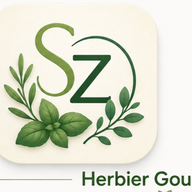
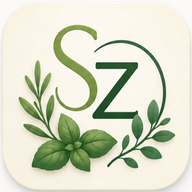
Add files via upload

diff --git a/app-v282.js b/app-v282.js
@@ -9,7 +9,7 @@ const norm = s => (s || '').normalize('NFD').replace(/[\u0300-\u036f]/g,'').toLo
 const esc = s => String(s ?? '').replace(/[&<>"']/g,c=>({"&":"&amp;","<":"&lt;",">":"&gt;",'"':"&quot;","'":"&#39;"}[c]));
 const recipeStore='hg-recipes-v271', planStore='hg-plan-v271', shoppingStore='hg-shopping-v271', slotStore='hg-day-slots-v271';
 const shoppingAssignmentStore='hg-shopping-assignments-v251';
-const APP_VERSION='2.9.7.16';
+const APP_VERSION='2.9.7.16.3';
 const mealTransferStore='hg-meal-transfers-v272', weekStore='hg-current-week-v272';
 const weekSlotStore='hg-week-slots-v28', aisleOrderStore='hg-aisle-order-v28';
 const mealNoteStore='hg-meal-notes-v294', shoppingStoreMemory='hg-shopping-stores-v294', leftoverAckStore='hg-leftover-notice-acks-v2977';
@@ -44,7 +44,7 @@ async function init(){
   await autoLoadSharedBackup();
   migrateLegacyWeekSlots();
   renderDaySlotChoices();
-  if('serviceWorker' in navigator) navigator.serviceWorker.register('sw.js?v=29716', {updateViaCache:'none'});
+  if('serviceWorker' in navigator) navigator.serviceWorker.register('sw.js?v=297163', {updateViaCache:'none'});
   setStartupStatus('Chargement de vos recettes…');
   const stored=JSON.parse(localStorage.getItem(recipeStore)||'null');
   if(stored) recipes=stored; else recipes=await fetch(`recipes.json?_=${Date.now()}`,{cache:'no-store'}).then(r=>r.json());
@@ -204,7 +204,7 @@ function openRecipe(id){if(id)captureRecipeListState();const r=recipes.find(x=>x
 $('#newRecipe').onclick=()=>openRecipe();$('#closeRecipe').onclick=()=>$('#recipeDialog').close();
 function parseNumber(v){const s=String(v??'').trim().replace(',','.').replace('½','.5').replace('¼','.25').replace('¾','.75');if(/^\d+\s+\d+\/\d+$/.test(s)){const [a,f]=s.split(/\s+/),[n,d]=f.split('/').map(Number);return Number(a)+n/d;}if(/^\d+\/\d+$/.test(s)){const [n,d]=s.split('/').map(Number);return n/d;}const n=Number(s);return Number.isFinite(n)?n:v;}
 function formRecipe(newId=false){const ingredients=$('#recipeIngredients').value.split('\n').map(x=>x.trim()).filter(Boolean).map(line=>{const [n,q='',u='']=line.split('/').map(x=>x.trim());return[n,parseNumber(q),u]});const existing=recipes.find(x=>x.id===$('#recipeId').value);return normalizeRecipe({id:newId||$('#recipeId').value||slug($('#recipeTitle').value),title:$('#recipeTitle').value.trim(),category:$('#recipeCategory').value.trim(),time:existing?.time||0,servings:+$('#recipeServings').value,temperature:$('#recipeTemperature').value,avecViande:$('#recipeType').value==='viande',type:$('#recipeType').value,effort:$('#recipeEffort').value,difficulty:$('#recipeDifficulty').value,special:$('#recipeSpecial').value,ingredients,steps:$('#recipeSteps').value.split('\n').map(x=>x.trim()).filter(Boolean),tags:$('#recipeTags').value.split(',').map(x=>x.trim()).filter(Boolean),source:existing?.source||'',notes:existing?.notes||'',paprikaUid:existing?.paprikaUid||'',complementRecipeIds:existing?.complementRecipeIds||[],complementText:existing?.complementText||'',leftoverIdeas:existing?.leftoverIdeas||'',cookedDates:existing?.cookedDates||[],favorite:existing?.favorite||false,cookingComments:existing?.cookingComments||[]});}
-$('#recipeForm').onsubmit=e=>{e.preventDefault();const r=formRecipe();const i=recipes.findIndex(x=>x.id===r.id);if(i>=0)recipes[i]=r;else recipes.unshift(r);plan.forEach(item=>{if(item.recipe?.id===r.id)item.recipe=r});saveRecipes();savePlanData();fillCategories();restoreRecipeListState();keepScroll(renderRecipes,'recipes');renderPlan();invalidateShopping('Une recette a été modifiée : les affichages du planning sont à jour. Retransfère le repas dans les courses si les ingrédients ont changé.');$('#recipeDialog').close();if(viewedRecipeId===r.id){const pi=plan.findIndex(x=>x.uid===viewedPlanItemId);if(previousView==='planner'&&pi>=0)showPlanRecipe(pi);else showRecipe(r.id)}};
+$('#recipeForm').onsubmit=e=>{e.preventDefault();const r=formRecipe();const i=recipes.findIndex(x=>x.id===r.id);if(i>=0)recipes[i]=r;else recipes.unshift(r);plan.forEach(item=>{if(item.recipe?.id===r.id)item.recipe=r});saveRecipes();savePlanData();fillCategories();restoreRecipeListState();keepScroll(renderRecipes,'recipes');renderPlan();invalidateShopping('Une recette a été modifiée : les affichages du planning sont à jour. Retransfère le repas dans les courses si les ingrédients ont changé.');$('#recipeDialog').close();if(viewedRecipeId===r.id){const pi=plan.findIndex(x=>x.uid===viewedPlanItemId);if(previousView==='planner'&&pi>=0)showPlanRecipe(pi,{rememberPlannerScroll:false});else showRecipe(r.id)}};
 $('#deleteRecipe').onclick=()=>{const id=$('#recipeId').value;if(id&&confirm('Supprimer définitivement cette recette ?')){recipes=recipes.filter(r=>r.id!==id);plan=plan.filter(x=>x.recipe.id!==id);saveRecipes();fillCategories();keepScroll(renderRecipes,'recipes');renderPlan();invalidateShopping('Une recette du planning a été supprimée.');$('#recipeDialog').close();switchView('recipes')}};
 $('#duplicateRecipe').onclick=()=>{const r=formRecipe(slug($('#recipeTitle').value));r.title+=' (copie)';r.cookedDates=[];r.favorite=false;r.cookingComments=[];recipes.unshift(r);saveRecipes();fillCategories();keepScroll(renderRecipes,'recipes');$('#recipeDialog').close();};
 
@@ -331,7 +331,7 @@ function removePlanItem(index){const item=plan[index];if(!item)return;if(confirm
 function setPlanRole(index){const item=plan[index];if(!item)return;const role=prompt('Service dans le repas (entrée, plat, accompagnement, dessert, sauce, boisson…)',item.role||'');if(role===null)return;item.role=role.trim();savePlanData();renderPlan();}
 function togglePreparePreviousDay(index){const item=plan[index];if(!item)return;item.preparePreviousDay=!item.preparePreviousDay;savePlanData();renderPlan();}
 function preparationsForDate(date){return plan.filter(x=>x.preparePreviousDay&&addDaysISO(x.date,-1)===date)}
-function showPlanRecipe(index){const m=plan[index];if(!m)return;viewedPlanItemId=m.uid;rememberScroll('planner');viewedRecipeId=m.recipe.id;previousView='planner';const rows=scaledIngredientRows(m.recipe,m.people,m.qtyOverrides||{});$('#recipeViewContent').innerHTML=`<div class="recipe-title"><div class="meta recipe-meta-line">${recipeMetaMarkup(m.recipe)} · <span><b>Planning :</b> ${esc(dateLabel(m.date))} ${esc(m.slot.toLowerCase())}</span></div><h2>${esc(m.recipe.title)}</h2><div class="recipe-tag-meta-row"><div class="badges">${(m.recipe.tags||[]).map(t=>`<span>${esc(t)}</span>`).join('')}</div><div class="meta recipe-meta-tail">${recipeMetaTailMarkup(m.recipe,m.people||m.recipe.servings)}</div></div>${recipeSourceMarkup(m.recipe.source)}</div><div class="notice subtle">Cette adaptation appartient uniquement à ce repas. La recette originale reste inchangée.</div><div class="recipe-columns"><section><h3>Ingrédients</h3><ul>${ingredientRowsMarkup(rows)}</ul></section><section><h3>Préparation</h3><ol>${stepRowsMarkup(m.recipe.steps)}</ol>${m.notes?`<h3>Notes du repas</h3><p>${esc(m.notes).replace(/\n/g,'<br>')}</p>`:''}${m.recipe.leftoverIdeas?`<h3>Utiliser des restes</h3><p>${esc(m.recipe.leftoverIdeas).replace(/\n/g,'<br>')}</p>`:''}</section></div>${recipeComplementMarkup(m.recipe)}${recipeMemoryMarkup(m.recipe)}`;switchView('recipeView');bindRecipeDetailLinks();}
+function showPlanRecipe(index,{rememberPlannerScroll=true}={}){const m=plan[index];if(!m)return;viewedPlanItemId=m.uid;if(rememberPlannerScroll)rememberScroll('planner');viewedRecipeId=m.recipe.id;previousView='planner';const rows=scaledIngredientRows(m.recipe,m.people,m.qtyOverrides||{});$('#recipeViewContent').innerHTML=`<div class="recipe-title"><div class="meta recipe-meta-line">${recipeMetaMarkup(m.recipe)} · <span><b>Planning :</b> ${esc(dateLabel(m.date))} ${esc(m.slot.toLowerCase())}</span></div><h2>${esc(m.recipe.title)}</h2><div class="recipe-tag-meta-row"><div class="badges">${(m.recipe.tags||[]).map(t=>`<span>${esc(t)}</span>`).join('')}</div><div class="meta recipe-meta-tail">${recipeMetaTailMarkup(m.recipe,m.people||m.recipe.servings)}</div></div>${recipeSourceMarkup(m.recipe.source)}</div><div class="notice subtle">Cette adaptation appartient uniquement à ce repas. La recette originale reste inchangée.</div><div class="recipe-columns"><section><h3>Ingrédients</h3><ul>${ingredientRowsMarkup(rows)}</ul></section><section><h3>Préparation</h3><ol>${stepRowsMarkup(m.recipe.steps)}</ol>${m.notes?`<h3>Notes du repas</h3><p>${esc(m.notes).replace(/\n/g,'<br>')}</p>`:''}${m.recipe.leftoverIdeas?`<h3>Utiliser des restes</h3><p>${esc(m.recipe.leftoverIdeas).replace(/\n/g,'<br>')}</p>`:''}</section></div>${recipeComplementMarkup(m.recipe)}${recipeMemoryMarkup(m.recipe)}`;switchView('recipeView');bindRecipeDetailLinks();}
 function renderPlan(){
   $('#weekLabel').textContent=weekLabel(currentWeekStart);
   const weekDates=days.map((_,i)=>addDaysISO(currentWeekStart,i));
@@ -460,7 +460,7 @@ const unitAliases={'tablespoon':'c. à soupe','tablespoons':'c. à soupe','tbsp'
 function parseIngredientLine(line){line=String(line).replace(/^[-•]\s*/,'').trim();if(!line)return['','',''];const m=line.match(/^((?:\d+\s+)?\d+\/\d+|\d+[.,]?\d*|[½¼¾⅓⅔])\s*([\p{L}. à]+)?\s+(.+)$/u);if(!m)return[line,'',''];let q=parseNumber(m[1]),unit=norm(m[2]||'').replace(/\.$/,'').trim(),name=m[3].trim();unit=unitAliases[unit]||m[2]?.trim()||'';return[name,q,unit]}
 function dedupeImported(a){const seen=new Set();return a.filter(r=>{const k=r.paprikaUid||norm(r.title);if(seen.has(k))return false;seen.add(k);return true})}
 
-function printDocument(title,body){const w=open('','_blank','width=900,height=700');if(!w)return alert('Fenêtre d’impression bloquée.');w.document.write(`<!doctype html><html lang="fr"><head><meta charset="utf-8"><title>${esc(title)}</title><style>@page{margin:10mm}body{font-family:Arial;max-width:850px;margin:auto;line-height:1.25}h1,h2{font-family:Georgia}.columns{display:grid;grid-template-columns:1fr 1.4fr;gap:20px}li{margin:3px 0}.day{border:1px solid #bbb;padding:8px;margin:6px 0;break-inside:avoid}.shop{columns:2}</style></head><body>${body}</body></html>`);w.document.close();setTimeout(()=>w.print(),250)}
+function printDocument(title,body){const w=open('','_blank','width=900,height=700');if(!w)return alert('Fenêtre d’impression bloquée.');w.document.write(`<!doctype html><html lang="fr"><head><meta charset="utf-8"><title>${esc(title)}</title><style>@page{margin:10mm}body{font-family:Arial;max-width:850px;margin:auto;line-height:1.25}h1,h2{font-family:Georgia}.columns{display:grid;grid-template-columns:1fr 1.4fr;gap:20px}li{margin:3px 0}.recipe-intertitle{font-weight:700;list-style:none;margin-top:8px;margin-left:-18px}.columns ol{list-style:none;counter-reset:recipe-step;padding-left:20px}.columns ol>li:not(.recipe-intertitle){counter-increment:recipe-step;position:relative}.columns ol>li:not(.recipe-intertitle)::before{content:counter(recipe-step) '. ';position:absolute;right:calc(100% + 5px)}.columns ol>.recipe-intertitle{margin-left:0}.day{border:1px solid #bbb;padding:8px;margin:6px 0;break-inside:avoid}.shop{columns:2}</style></head><body>${body}</body></html>`);w.document.close();setTimeout(()=>w.print(),250)}
 function printRecipe(r,people=null){if(!r)return;const p=people||r.servings;const body=`<h1>${esc(r.title)}</h1><p>${p} portions · ${esc(r.category)} · ${esc(recipeTypeLabel(r.type))} · ${esc(recipeEffortLabel(r.effort))} · ${esc(recipeDifficultyLabel(r.difficulty))}</p><div class="columns"><section><h2>Ingrédients</h2><ul>${ingredientRowsMarkup(scaledIngredientRows(r,p))}</ul></section><section><h2>Préparation</h2><ol>${stepRowsMarkup(r.steps)}</ol></section></div>`;printDocument(r.title,body)}
 $('#printPlan').onclick=()=>{const week=plan.filter(x=>x.date>=currentWeekStart&&x.date<=addDaysISO(currentWeekStart,6));if(!week.length)return alert('Aucun planning.');printDocument('Planning',`<h1>Calendrier culinaire — ${esc(weekLabel(currentWeekStart))}</h1>${days.map((d,i)=>{const date=addDaysISO(currentWeekStart,i),ms=week.filter(x=>x.date===date);return ms.length?`<div class="day"><h2>${esc(dateLabel(date))}</h2>${slots.map(s=>{const si=ms.filter(x=>x.slot===s);return si.length?`<h3>${s} — ${mealPeople(date,s)} pers.</h3>${si.map(m=>`<p>${m.role?`<strong>${esc(m.role)}</strong> · `:''}${esc(m.recipe.title)}</p>`).join('')}`:''}).join('')}</div>`:''}).join('')}`)};$('#printShopping').onclick=()=>{if(!shopping.length)return alert('Liste vide.');const grouped={};sortedShopping().forEach(x=>(grouped[shoppingGroupKey(x)]??=[]).push(x));printDocument('Courses',`<h1>Liste de courses</h1>${Object.entries(grouped).map(([g,items])=>`<div class="day"><h2>${esc(g)}</h2><ul>${items.map(x=>`<li>☐ ${esc(x.name)}${x.qty?` — ${Math.round(x.qty*100)/100} ${esc(x.unit)}`:''}${shoppingGroupMode==='store'&&x.aisle?` <small>(${esc(x.aisle)})</small>`:''}</li>`).join('')}</ul></div>`).join('')}`)};
 function loadSaved(){try{const s=JSON.parse(localStorage.getItem(planStore)||localStorage.getItem('hg-plan-v26')||'null');if(s){currentWeekStart=s.weekStart||localStorage.getItem(weekStore)||mondayISO(new Date());plan=(s.items||[]).map(x=>{const date=x.date||addDaysISO(currentWeekStart,Number(x.dayIndex)||0);return{uid:x.uid||uid(),date,slot:x.slot,people:(Number(x.people)>=1&&Number(x.people)<=10?Number(x.people):(Number(s.people)>=1&&Number(s.people)<=10?Number(s.people):null)),role:x.role||'',notes:x.notes||'',preparePreviousDay:Boolean(x.preparePreviousDay),isLeftover:Boolean(x.isLeftover),leftoverSourceDate:x.leftoverSourceDate||'',leftoverPortions:Number(x.leftoverPortions)||0,leftoverIdea:x.leftoverIdea||'',recipe:recipes.find(r=>r.id===x.id)}}).filter(x=>x.recipe)}shopping=(JSON.parse(localStorage.getItem(shoppingStore)||localStorage.getItem('hg-shopping-v26')||localStorage.getItem('hg-shopping')||'[]')||[]).map(normalizeShoppingItem);consolidateShopping();localStorage.setItem(shoppingStore,JSON.stringify(shopping))}catch(e){console.error(e)}localStorage.setItem(weekStore,currentWeekStart);renderDaySlotChoices();renderPlan();renderShopping()}

diff --git a/service-worker.js b/service-worker.js
@@ -1,5 +1,5 @@
-const CACHE='herbier-v2-9-7-16-2';
-const ASSETS=['./','index.html','styles-v282.css?v=297162','app-v282.js?v=297162','recipes.json','manifest.webmanifest','icon-hg-2970-192.png','icon-hg-2970-512.png','version.json','restaurants.json','producers.json','herbs-spices.json','fruits-vegetables.json','herbier-latest.hgbak'];
+const CACHE='herbier-v2-9-7-16-3';
+const ASSETS=['./','index.html','styles-v282.css?v=297163','app-v282.js?v=297163','recipes.json','manifest.webmanifest','icon-hg-2970-192.png','icon-hg-2970-512.png','version.json','restaurants.json','producers.json','herbs-spices.json','fruits-vegetables.json','herbier-latest.hgbak'];
 self.addEventListener('install',event=>{self.skipWaiting();event.waitUntil(caches.open(CACHE).then(cache=>Promise.allSettled(ASSETS.map(asset=>fetch(asset,{cache:'no-store'}).then(r=>{if(r.ok)return cache.put(asset,r)})))))});
 self.addEventListener('activate',event=>{event.waitUntil(caches.keys().then(keys=>Promise.all(keys.filter(key=>key!==CACHE).map(key=>caches.delete(key)))).then(()=>self.clients.claim()))});
 self.addEventListener('fetch',event=>{const request=event.request,url=new URL(request.url);if(request.mode==='navigate'||/\.(?:js|css|json)$/.test(url.pathname)){event.respondWith(fetch(request,{cache:'no-store'}).then(response=>{if(response.ok)caches.open(CACHE).then(cache=>cache.put(request,response.clone()));return response}).catch(()=>caches.match(request,{ignoreSearch:true}).then(cached=>cached||caches.match('index.html'))));return}event.respondWith(caches.match(request).then(cached=>cached||fetch(request).then(response=>{if(response.ok)caches.open(CACHE).then(cache=>cache.put(request,response.clone()));return response})))})

diff --git a/sw.js b/sw.js
@@ -1,5 +1,5 @@
-const CACHE='herbier-v2-9-7-16-2';
-const ASSETS=['./','index.html','styles-v282.css?v=297162','app-v282.js?v=297162','recipes.json','manifest.webmanifest','icon-hg-2970-192.png','icon-hg-2970-512.png','version.json','restaurants.json','producers.json','herbs-spices.json','fruits-vegetables.json','herbier-latest.hgbak'];
+const CACHE='herbier-v2-9-7-16-3';
+const ASSETS=['./','index.html','styles-v282.css?v=297163','app-v282.js?v=297163','recipes.json','manifest.webmanifest','icon-hg-2970-192.png','icon-hg-2970-512.png','version.json','restaurants.json','producers.json','herbs-spices.json','fruits-vegetables.json','herbier-latest.hgbak'];
 self.addEventListener('install',event=>{self.skipWaiting();event.waitUntil(caches.open(CACHE).then(cache=>Promise.allSettled(ASSETS.map(asset=>fetch(asset,{cache:'no-store'}).then(r=>{if(r.ok)return cache.put(asset,r)})))))});
 self.addEventListener('activate',event=>{event.waitUntil(caches.keys().then(keys=>Promise.all(keys.filter(key=>key!==CACHE).map(key=>caches.delete(key)))).then(()=>self.clients.claim()))});
 self.addEventListener('fetch',event=>{const request=event.request,url=new URL(request.url);if(request.mode==='navigate'||/\.(?:js|css|json)$/.test(url.pathname)){event.respondWith(fetch(request,{cache:'no-store'}).then(response=>{if(response.ok)caches.open(CACHE).then(cache=>cache.put(request,response.clone()));return response}).catch(()=>caches.match(request,{ignoreSearch:true}).then(cached=>cached||caches.match('index.html'))));return}event.respondWith(caches.match(request).then(cached=>cached||fetch(request).then(response=>{if(response.ok)caches.open(CACHE).then(cache=>cache.put(request,response.clone()));return response})))})

diff --git a/index.html b/index.html
@@ -132,7 +132,7 @@
   </div>
 </div>
 <header>
-  <div class="brand"><img src="icon-hg-2970-192.png" alt="" class="brand-icon"><div><h1>Herbier Gourmand</h1><p>v2.9.7.16.2 · Critères harmonisés</p></div></div>
+  <div class="brand"><img src="icon-hg-2970-192.png" alt="" class="brand-icon"><div><h1>Herbier Gourmand</h1><p>v2.9.7.16.3 · Logo, impression & retour Planning</p></div></div>
   <div class="header-actions"><span id="lastDeviceAction" class="last-device-action"></span></div>
 </header>
 <nav>
@@ -362,5 +362,5 @@
 <dialog id="leftoverChoiceDialog" class="leftover-choice-dialog"><div class="leftover-choice-card"><h2 id="leftoverChoiceTitle">Utiliser des restes</h2><p id="leftoverChoiceMessage"></p><div id="leftoverChoiceButtons" class="leftover-choice-buttons"></div><div class="leftover-choice-actions"><button id="leftoverChoiceCancel" type="button">Annuler</button></div></div></dialog>
 <dialog id="leftoverDateDialog" class="leftover-choice-dialog"><div class="leftover-choice-card"><h2>Choisir la date</h2><p>Quand veux-tu utiliser ces restes ?</p><input id="leftoverDateInput" class="leftover-date-input" type="date"><div class="dialog-actions"><button id="leftoverDateCancel" type="button">Annuler</button><button id="leftoverDateOk" type="button" class="primary">Choisir cette date</button></div></div></dialog>
 
-<script src="app-v282.js?v=297162"></script>
+<script src="app-v282.js?v=297163"></script>
 </body></html>

diff --git a/README-v2.9.7.16.3.md b/README-v2.9.7.16.3.md
@@ -1,0 +1,9 @@
+# Herbier Gourmand v2.9.7.16.3
+
+Correctifs ciblés :
+
+- remplacement du logo par la source propre fournie ;
+- impression des intertitres (`... :`) en gras et sans numéro/puce, avec numérotation continue des vraies étapes ;
+- après modification d’une recette ouverte depuis le Planning, conservation de la semaine et de la position du repas au retour.
+
+Base : v2.9.7.16.2. Aucune donnée utilisateur n’est remplacée.
